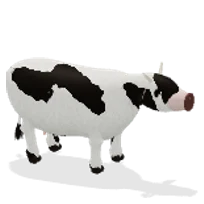
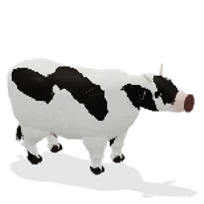
3D map: animals, second pass — withers, hips and flank, shoulder and haunch, wedge heads, legs with visible joints
- Trunk rises over the withers, widens at the hips and tucks up at the flank.
- A shoulder and a haunch mass where each leg leaves the trunk (not under a fleece,
  not at the lightest level of detail).
- The skull is one wedge from poll to muzzle instead of a ball.
- Leg stations are laid out on the part of the leg below the belly, so knees and
  hocks show on every species and the upper leg thickens above them.
- Triangle budgets unchanged and still enforced; 14 animal pictures and the barn,
  coop and pasture tiles re-rendered.

Claude-Session: https://claude.ai/code/session_015cd1CPcgVws6SSknyxPWSB

diff --git a/src/features/grove/animals3d.js b/src/features/grove/animals3d.js
@@ -96,8 +96,10 @@ function quadruped(S, r, vi) {
   // body: a capsule along z, wider than tall for cattle and pigs
   // the trunk is one lofted form: level back, deeper chest, a belly where the species carries one, narrowing to rump and breast
   const w0 = br * bw, hz = bl / 2;
-  R.loft([[-hz - br * .98, .02, by + br * .5, by + br * .2], [-hz - br * .62, w0 * .62, by + br * .84, by - br * .42], [-hz, w0, by + br * .98, by - br * .88], [-bl * .15, w0 * 1.06, by + br * .95, by - br * (S.belly ? 1.08 : .98)], [bl * .2, w0 * 1.02, by + br * .94, by - br],
-    [hz, w0 * .92, by + br, by - br * (S.chest ? 1.02 : .92)], [hz + br * .55, w0 * .6, by + br * .9, by - br * .55], [hz + br * .95, .02, by + br * .45, by + br * .05]], C.body, { field: paint, rings: 30, seg: 32 });
+  const tuck = S.tuck ?? (S.belly ? .02 : .12), wither = S.withers ?? .06; // how far the flank is drawn up behind the ribs, and the rise over the shoulders
+  R.loft([[-hz - br * .98, .02, by + br * .5, by + br * .2], [-hz - br * .62, w0 * .64, by + br * .86, by - br * .42], [-hz, w0 * 1.04, by + br * 1.0, by - br * .86], [-bl * .27, w0 * .97, by + br * .93, by - br * (.98 - tuck)],
+    [-bl * .02, w0 * 1.07, by + br * .94, by - br * (S.belly ? 1.1 : .98)], [bl * .24, w0 * 1.03, by + br * .95, by - br * (S.chest ? 1.06 : 1)],
+    [hz, w0 * .96, by + br * (1 + wither), by - br * (S.chest ? 1.02 : .92)], [hz + br * .55, w0 * .64, by + br * .92, by - br * .6], [hz + br * .95, .02, by + br * .45, by + br * .05]], C.body, { field: paint, rings: 30, seg: 32 });
   // neck + head pivot at the withers
   const n0 = [0, by + br * .35, bl / 2 + br * .1], up = S.neck.up, nl = S.neck.len;
   const n1 = [0, n0[1] + Math.sin(up) * nl, n0[2] + Math.cos(up) * nl];
@@ -105,9 +107,12 @@ function quadruped(S, r, vi) {
   R.loft([[-S.neck.r0 * .5, S.neck.r0 * .9, S.neck.r0 * 1.05, -S.neck.r0 * 1.15], [nl * .5, (S.neck.r0 + S.neck.r1) * .46, (S.neck.r0 + S.neck.r1) * .52, -(S.neck.r0 + S.neck.r1) * .56], [nl * 1.05, S.neck.r1 * .92, S.neck.r1, -S.neck.r1]], C.body, { part: PART.head, pivot: n0, pos: n0, rot: [-up, 0, 0], field: paint, rings: 8, seg: 18, pow: 2.1 });
   if (S.mane) for (let k = 0, nm = hairs(9, 4); k < nm; k++) { const t = .08 + k * .8 / (nm - 1), m = [0, n0[1] + (n1[1] - n0[1]) * t + S.neck.r0 * (1.02 - t * .3), n0[2] + (n1[2] - n0[2]) * t - S.neck.r0 * .25 * Math.sin(up)]; R.blade(S.mane * 2.6, S.mane * 1.1 * Math.sqrt(9 / nm), C.mane || C.tuft, { part: PART.head, pivot: n0, pos: m, rot: [1.2 - up * .3, (k % 2 ? 1 : -1) * 1.35, 0], droop: .5, fold: .2 }); }
   const hl = S.head.l * 1.05, hw = S.head.w * 1.1, hh = S.head.h * 1.1, pitch = S.head.pitch || 0, hc = [0, n1[1] + Math.sin(-pitch) * hl * .3, n1[2] + hl * .3];
-  head(sph(16, 12), { pos: hc, scale: [hw, hh, hl * .66], rot: [pitch, 0, 0], field: paint });
   // snout / muzzle
-  const sn = S.snout, sc = [0, hc[1] - sn.drop, hc[2] + hl * .5];
+  const sn = S.snout, sc = [0, hc[1] - sn.drop, hc[2] + hl * .5], mx = (a, b2, t) => a + (b2 - a) * t;
+  // the skull is one wedge from the poll to the muzzle: brow and jaw at their widest behind the eye, tapering into the snout
+  R.loft([[hc[2] - hl * .66, .02, hc[1] + hh * .3, hc[1] - hh * .05], [hc[2] - hl * .46, hw * .84, hc[1] + hh * .92, hc[1] - hh * .74], [hc[2] - hl * .06, hw * 1.03, hc[1] + hh * 1.03, hc[1] - hh * .98],
+    [hc[2] + hl * .3, mx(hw, sn.w * 1.15, .55), mx(hc[1] + hh, sc[1] + sn.h * 1.1, .55), mx(hc[1] - hh * .95, sc[1] - sn.h * 1.05, .55)], [sc[2] + sn.l * .1, sn.w * 1.13, sc[1] + sn.h * 1.08, sc[1] - sn.h * 1.05], [sc[2] + sn.l * .55, sn.w * .9, sc[1] + sn.h * .8, sc[1] - sn.h * .8]],
+    C.head, { part: PART.head, pivot: n0, field: paint, rings: 12, seg: 16, minRings: 6, minSeg: 8, pow: 2.2 });
   head(sph(14, 10), { pos: sc, scale: [sn.w * 1.15, sn.h * 1.1, sn.l], color: C.muzzle || C.head, field: C.muzzle ? null : paint });
   if (S.noseDisc) head(new THREE.CylinderGeometry(sn.w * .8, sn.w * .8, .03, 10), { pos: [0, sc[1], sc[2] + sn.l * .95], rot: [HPI, 0, 0], color: C.nose || 0x6d4a44 });
   else head(sph(7, 5), { pos: [0, sc[1] + sn.h * .25, sc[2] + sn.l * .82], scale: [sn.w * .5, sn.h * .35, sn.l * .3], color: C.nose || 0x33302d });
@@ -126,13 +131,19 @@ function quadruped(S, r, vi) {
   if (S.topknot) head(sph(7, 5), { pos: [0, hc[1] + hh * .9, hc[2] - hl * .05], scale: [hw * .9, hh * .45, hl * .45], color: C.tuft || C.head });
   // legs: FL FR BL BR, pivot at the hip, hoof at the ground
   const lr = S.legR * .88, lx = br * bw * .62, lzF = bl / 2 - br * .15, lzB = -bl / 2 + br * .2, hipY = by - br * .35;
-  // legs are lofted from pastern to elbow or stifle, with a knee in front and a hock behind; stations are [height, half width, back, front] in leg radii
-  const FRONT = [[.07, .9, .9, -1], [.17, 1.05, 1.2, -1.1], [.24, .8, .85, -.85], [.42, .82, .9, -.9], [.5, 1.15, 1.2, -1.35], [.58, 1.05, 1.15, -1.15], [.75, 1.5, 1.8, -1.7], [.92, 1.8, 2.5, -2.1], [1, 1.3, 2, -1.7]];
-  const HIND = [[.07, .9, .9, -1], [.17, 1.05, 1.3, -1.05], [.25, .8, 1.05, -.72], [.44, .85, 1.6, -.3], [.53, 1.05, 2.6, -.15], [.62, 1.1, 2, -.6], [.76, 1.6, 1.9, -2], [.92, 2.1, 2.1, -3.2], [1, 1.6, 1.7, -2.8]];
-  const legTop = hipY + br * .3, lr0 = lr * 1.25;
+  // legs are lofted from pastern to shoulder or hip; stations are [u, half width, back, front] in leg radii. u runs 0-1 up the part of the leg
+  // that shows below the belly and 1-2 up the part inside the trunk, so on every species the knee and the hock sit half-way up the leg you can
+  // see and the forearm and gaskin thicken above them (before, the joints of a deep-bodied animal were hidden in its belly and the legs were posts)
+  const FRONT = [[.07, .9, .9, -1], [.17, 1.05, 1.2, -1.1], [.25, .8, .85, -.85], [.44, .84, .92, -.92], [.52, 1.2, 1.25, -1.4], [.6, 1.1, 1.2, -1.2], [.8, 1.55, 1.9, -1.65], [1, 1.9, 2.5, -2], [1.5, 2, 2.6, -2.2], [2, 1.3, 2, -1.7]];
+  const HIND = [[.07, .9, .9, -1], [.17, 1.05, 1.3, -1.05], [.25, .8, 1.05, -.72], [.46, .86, 1.5, -.4], [.56, 1.08, 2.5, -.2], [.66, 1.15, 2, -.75], [.84, 1.7, 2, -2], [1, 2.2, 2.3, -3], [1.5, 2.3, 2.4, -3.2], [2, 1.6, 1.7, -2.8]];
+  const legTop = hipY + br * .3, lr0 = lr * 1.25, shown = Math.min(.8, Math.max(.3, (by - br * .92) / legTop)); // the share of the leg below the belly
+  if (QUAL >= .5 && !S.fleece) [-1, 1].forEach((sd2) => { // the shoulder and the haunch: the mass a leg hangs from (dropped at the lightest level, and under a fleece)
+    R.ell(w0 * .44, br * .82, br * .62, C.body, { pos: [sd2 * w0 * .68, by - br * .1, lzF - br * .02], rot: [.3, 0, 0], field: paint, seg: 10, rings: 7 });
+    R.ell(w0 * .5, br * .88, br * .8, C.body, { pos: [sd2 * w0 * .66, by - br * .08, lzB + br * .1], rot: [-.25, 0, 0], field: paint, seg: 10, rings: 7 });
+  });
   [[-lx, lzF, PART.FL, FRONT], [lx, lzF, PART.FR, FRONT], [-lx, lzB, PART.BL, HIND], [lx, lzB, PART.BR, HIND]].forEach(([x, z, part, st]) => {
     const piv = [x, hipY, z];
-    R.loft(st.map(([t, w, back, front]) => [t * legTop, w * lr0, back * lr0, front * lr0]), C.legs || C.body, { part, pivot: piv, pos: [x, 0, z], rot: [-HPI, 0, 0], field: C.legs ? null : paint, rings: 16, seg: 12, minRings: 7, minSeg: 8, pow: 2.2 });
+    R.loft(st.map(([u, w, back, front]) => [(u <= 1 ? u * shown : shown + (u - 1) * (1 - shown)) * legTop, w * lr0, back * lr0, front * lr0]), C.legs || C.body, { part, pivot: piv, pos: [x, 0, z], rot: [-HPI, 0, 0], field: C.legs ? null : paint, rings: 16, seg: 12, minRings: 7, minSeg: 8, pow: 2.2 });
     if (S.mane || QUAL < .5) R.ell(lr * 1.35, lr * 1.0, lr * 1.5, C.hoof || 0x3a302a, { part, pivot: piv, pos: [x, lr * .8, z + lr * .15], seg: 10, rings: 7, surf: [0, .45] }); // a single hoof
     else [-1, 1].forEach((sd2) => R.ell(lr * .72, lr * .95, lr * 1.3, C.hoof || 0x3a302a, { part, pivot: piv, pos: [x + sd2 * lr * .62, lr * .8, z + lr * .35], rot: [0, sd2 * .14, 0], seg: 8, rings: 6, surf: [0, .45] })); // cloven
   });
@@ -211,7 +222,7 @@ const SPECIES = {
     neck: { len: .55, up: 42 * DEG, r0: .2, r1: .15 }, head: { l: .5, w: .15, h: .19, pitch: .5 }, snout: { w: .13, h: .11, l: .16, drop: .14 },
     ears: { type: "long", len: .34, w: .07 }, tail: { len: .7, down: .62, back: .1, r: .03, tuft: .16 },
     colors: (r, vi) => { const v = pick(vi, [0x8d8781, 0x6e665e, 0xa39a90]); return { body: col(v), head: col(v), muzzle: col(0xe5ded3), hoof: col(0x2a2220), tuft: col(0x3a332e), mane: col(0x3a332e), ears: col(v) }; } },
-  Alpaca: { graze: 2.0, kind: KIND.grazer, L: 1.6, H: 1.0, br: .34, bw: .95, bodyFrac: .55, belly: true, legR: .045, walk: .4, seed: 4, topknot: true,
+  Alpaca: { graze: 2.0, kind: KIND.grazer, fleece: true, L: 1.6, H: 1.0, br: .34, bw: .95, bodyFrac: .55, belly: true, legR: .045, walk: .4, seed: 4, topknot: true,
     neck: { len: .75, up: 78 * DEG, r0: .17, r1: .12 }, head: { l: .32, w: .12, h: .15, pitch: .3 }, snout: { w: .09, h: .08, l: .1, drop: .06 },
     ears: { type: "up", len: .14, w: .045 }, tail: { len: .2, down: .05, back: .18, r: .05, up: false },
     colors: (r, vi) => { const v = pick(vi, [0xf1e8d6, 0xd9b98f, 0x6d4a33, 0xc7c0b6]); return { body: col(v), head: col(v), muzzle: col(v).multiplyScalar(.85), hoof: col(0x3a302a), tuft: col(v) }; },
@@ -224,7 +235,7 @@ const SPECIES = {
     neck: { len: .36, up: 42 * DEG, r0: .11, r1: .085 }, head: { l: .3, w: .1, h: .13, pitch: .35 }, snout: { w: .07, h: .07, l: .1, drop: .06 },
     ears: { type: "side", len: .16, w: .06 }, horns: { spread: .04, up: .14, back: .14, r: .022 }, tail: { len: .14, r: .02, up: true },
     colors: (r, vi) => { const v = pick(vi, [[0xf3efe6, 0xa86b3c], [0xefe6d4, 0x3a2f28], [0x8a5a3a, 0x3a2a20], [0x5a4638, null]]); return { body: col(v[0]), patch: v[1] == null ? null : col(v[1]), head: col(v[0]), hoof: col(0x3a302a), tuft: col(v[1] == null ? 0x8a7a6a : v[1]), horn: col(0x9a8c76) }; }, patchCut: .5 },
-  Sheep: { graze: .85, kind: KIND.grazer, L: 1.25, H: .78, br: .28, bw: 1.05, bodyFrac: .55, legR: .03, walk: .32, seed: 7,
+  Sheep: { graze: .85, kind: KIND.grazer, fleece: true, L: 1.25, H: .78, br: .28, bw: 1.05, bodyFrac: .55, legR: .03, walk: .32, seed: 7,
     neck: { len: .22, up: 20 * DEG, r0: .12, r1: .09 }, head: { l: .3, w: .1, h: .13, pitch: .3 }, snout: { w: .07, h: .07, l: .1, drop: .05 },
     ears: { type: "side", len: .12, w: .06 }, tail: { len: .12, down: .12, back: .03, r: .03 },
     colors: (r, vi) => { const v = pick(vi, [[0xf4efe3, 0x2b2622], [0xf4efe3, 0xf0e8da], [0xe9e2d3, 0x5a4a3c], [0xd8d0c0, 0x2b2622]]); return { body: col(v[0]), head: col(v[1]), legs: col(v[1]), ears: col(v[1]), hoof: col(0x2a2220) }; },

diff --git a/docs/MAP_STYLE.md b/docs/MAP_STYLE.md
@@ -141,7 +141,7 @@ Buildings, ground and props keep the toy SHAPES below; their surfaces follow §1
 - **Bundle:** the Grove3D chunk is 231.8 KB gzip. The 230 KB budget is raised to **240 KB** (2026-11-10): splitting the plant models into their own file would not make the download smaller, only two files. Trees and animals will need the question asked again.
 - **Known weak points:** on a zoomed-out farm, thin crops (onion, garlic, carrot, grain) leave beds looking emptier than the old chunky models did. Small pictures of fine-leaved plants (thyme, oregano, dill) are harder to read at list size. Okra pods hide in the foliage.
 - **Fruit and nut trees (third slice, `trees-real.js`).** One model per species (19 keys), in units of the crown radius; the map scales it by size and stage as before. A barked trunk forking into limbs, a crown of separate leaves over darker inner masses (`PlantKit.lump`), fruit under the foliage at stage 5 only. Habits differ: apple spreads, pear and avocado stand tall, peach and almond are vase-shaped with hanging narrow leaves, citrus is dense and dark, fig is low on three stems with huge leaves, olive is gnarled and silver, hazel and pomegranate are multi-stem shrubs. Trees are drawn through `buildCrops` (items with `tree: true`), one instanced mesh per species, so they sway with the crops. Levels by tree count (`treeTier`): 0 up to 4 trees, 1 up to 10, 2 up to 24, 3 up to 60, 4 beyond; budget per tree 16,000 / 6,500 / 3,200 / 2,200 / 2,000 triangles. The fruit-drop animation and the gold harvest ring are unchanged. All-zones farm after this slice: 396 k triangles, 635 ms on the software rasteriser (696 ms before).
-- **Animals (fourth slice, `animals3d.js`).** Same rig, brain and one-mesh herd as before; the models and the material changed. The trunk is one lofted form (`Rig.loft`: stations of half width, top and bottom, slightly square in section) with a chest and, where the species carries one, a belly. Legs are lofted with a knee in front and a hock behind; horses and donkeys stand on one hoof, the rest are cloven. Ears are cupped sheets with a pink inside, manes and tail tufts are hair blades, birds carry tail and wing feathers, three toes forward and one back, a lobed comb. Trunks are leaner and heads smaller than the toy build, and the horse is shorter in the back. **This is simplified anatomy that reads at map size, not a sculpt: no shoulders, no muscle, no face modelling.**
+- **Animals (fourth slice, `animals3d.js`).** Same rig, brain and one-mesh herd as before; the models and the material changed. The trunk is one lofted form (`Rig.loft`: stations of half width, top and bottom, slightly square in section) with a chest and, where the species carries one, a belly. Legs are lofted with a knee in front and a hock behind; horses and donkeys stand on one hoof, the rest are cloven. Ears are cupped sheets with a pink inside, manes and tail tufts are hair blades, birds carry tail and wing feathers, three toes forward and one back, a lobed comb. Trunks are leaner and heads smaller than the toy build, and the horse is shorter in the back. **This is simplified anatomy that reads at map size, not a sculpt.** Second pass (2026-11-11): the trunk rises over the withers, widens at the hips and is drawn up at the flank (`S.withers`, `S.tuck`); a shoulder and a haunch mass sit where each leg leaves the trunk (not under a fleece — `S.fleece` — and not at the lightest level); the skull is one wedge from poll to muzzle instead of a ball; and the leg stations are laid out on the part of the leg that shows below the belly (`shown`), so on every species the knee and hock sit half-way up the visible leg with the forearm and gaskin thickening above them — before, a deep-bodied animal's joints were hidden in its belly and its legs were posts. Still no muscle or face modelling.
 - **Coat material.** `MeshPhongMaterial` with two extra vertex attributes: `g3s = (kind, gloss, patch field, patch cut)` and `g3k = (patch colour, hair scale)`. Kind 4 is coat or plumage, 0 is plain (eyes, hooves, horns, beaks). Breed patches (cow, goat) are a smooth field stored in the vertices and cut per pixel with a little noise, so their edges are crisp at any distance. A stretched noise adds hair or feather grain. Eyes shine (gloss .95), hooves, horns and beaks a little. Undersides are shaded in the colours.
 - **Animal levels of detail** (`animalTier(count, phone)`, `ANIMAL_Q`): by the number of animals on the farm — 0 up to 6, 1 up to 16, 2 up to 40, 3 beyond; a phone on a big farm drops one more level. Lighter levels have fewer segments, fewer and wider hair blades, and at level 3 a single hoof. Budget per animal: cattle-sized 7,000 / 4,000 / 2,900 / 2,200 triangles, birds and rabbits 2,200 / 1,500 / 1,150 / 900 (enforced in `tests/animals-real.test.js`). Before this slice a cow was 5,168 triangles at every herd size on a desktop, so herds of seven or more are now lighter than they were; a single animal is heavier (cow 5,988, hen 1,956 against 1,304).
 - **Measured 2026-11-10** on the zoo harness (25 animals, phone level, software rasteriser): herd 17.6 k → 28.6 k triangles, frame time 312 → 322 ms, inside the run-to-run noise. Not measured on a phone. Bundle after this slice: Grove3D chunk 237.5 KB gzip of the 240 KB budget — the next addition to the 3D map has to split the chunk or take something out.
